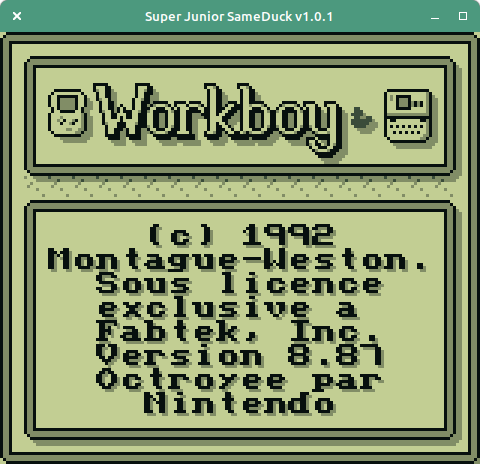
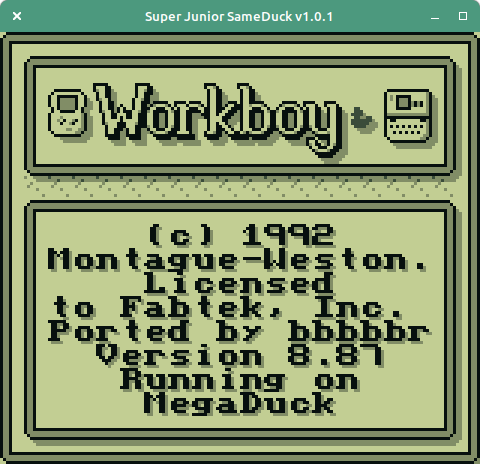
Readme: Hardware and updated emu pic

Changed region(s): [[0.0938, 0.5733, 0.9062, 0.7543], [0.1875, 0.7845, 0.8125, 0.9052]]

diff --git a/Readme.md b/Readme.md
@@ -4,7 +4,8 @@ The fabled Workboy ROM patched to run on the Mega Duck Laptop.
 
 The Mega Duck laptop is a Game Boy clone with minor changes to make it incompatible and a built-in keyboard and RTC.
 
-![Patched Workboy program title screen showing megaduck console icons](info/duckduckworkboy_title_screen.png)
+![Patched Workboy program title screen showing megaduck console icons in an emulator](info/duckduckworkboy_title_screen.png)
+![Patched Workboy program title screen showing megaduck console icons on hardware](info/duckduckworkboy_title_screen_on_hardware.jpg)
 
 
 ### Project 
